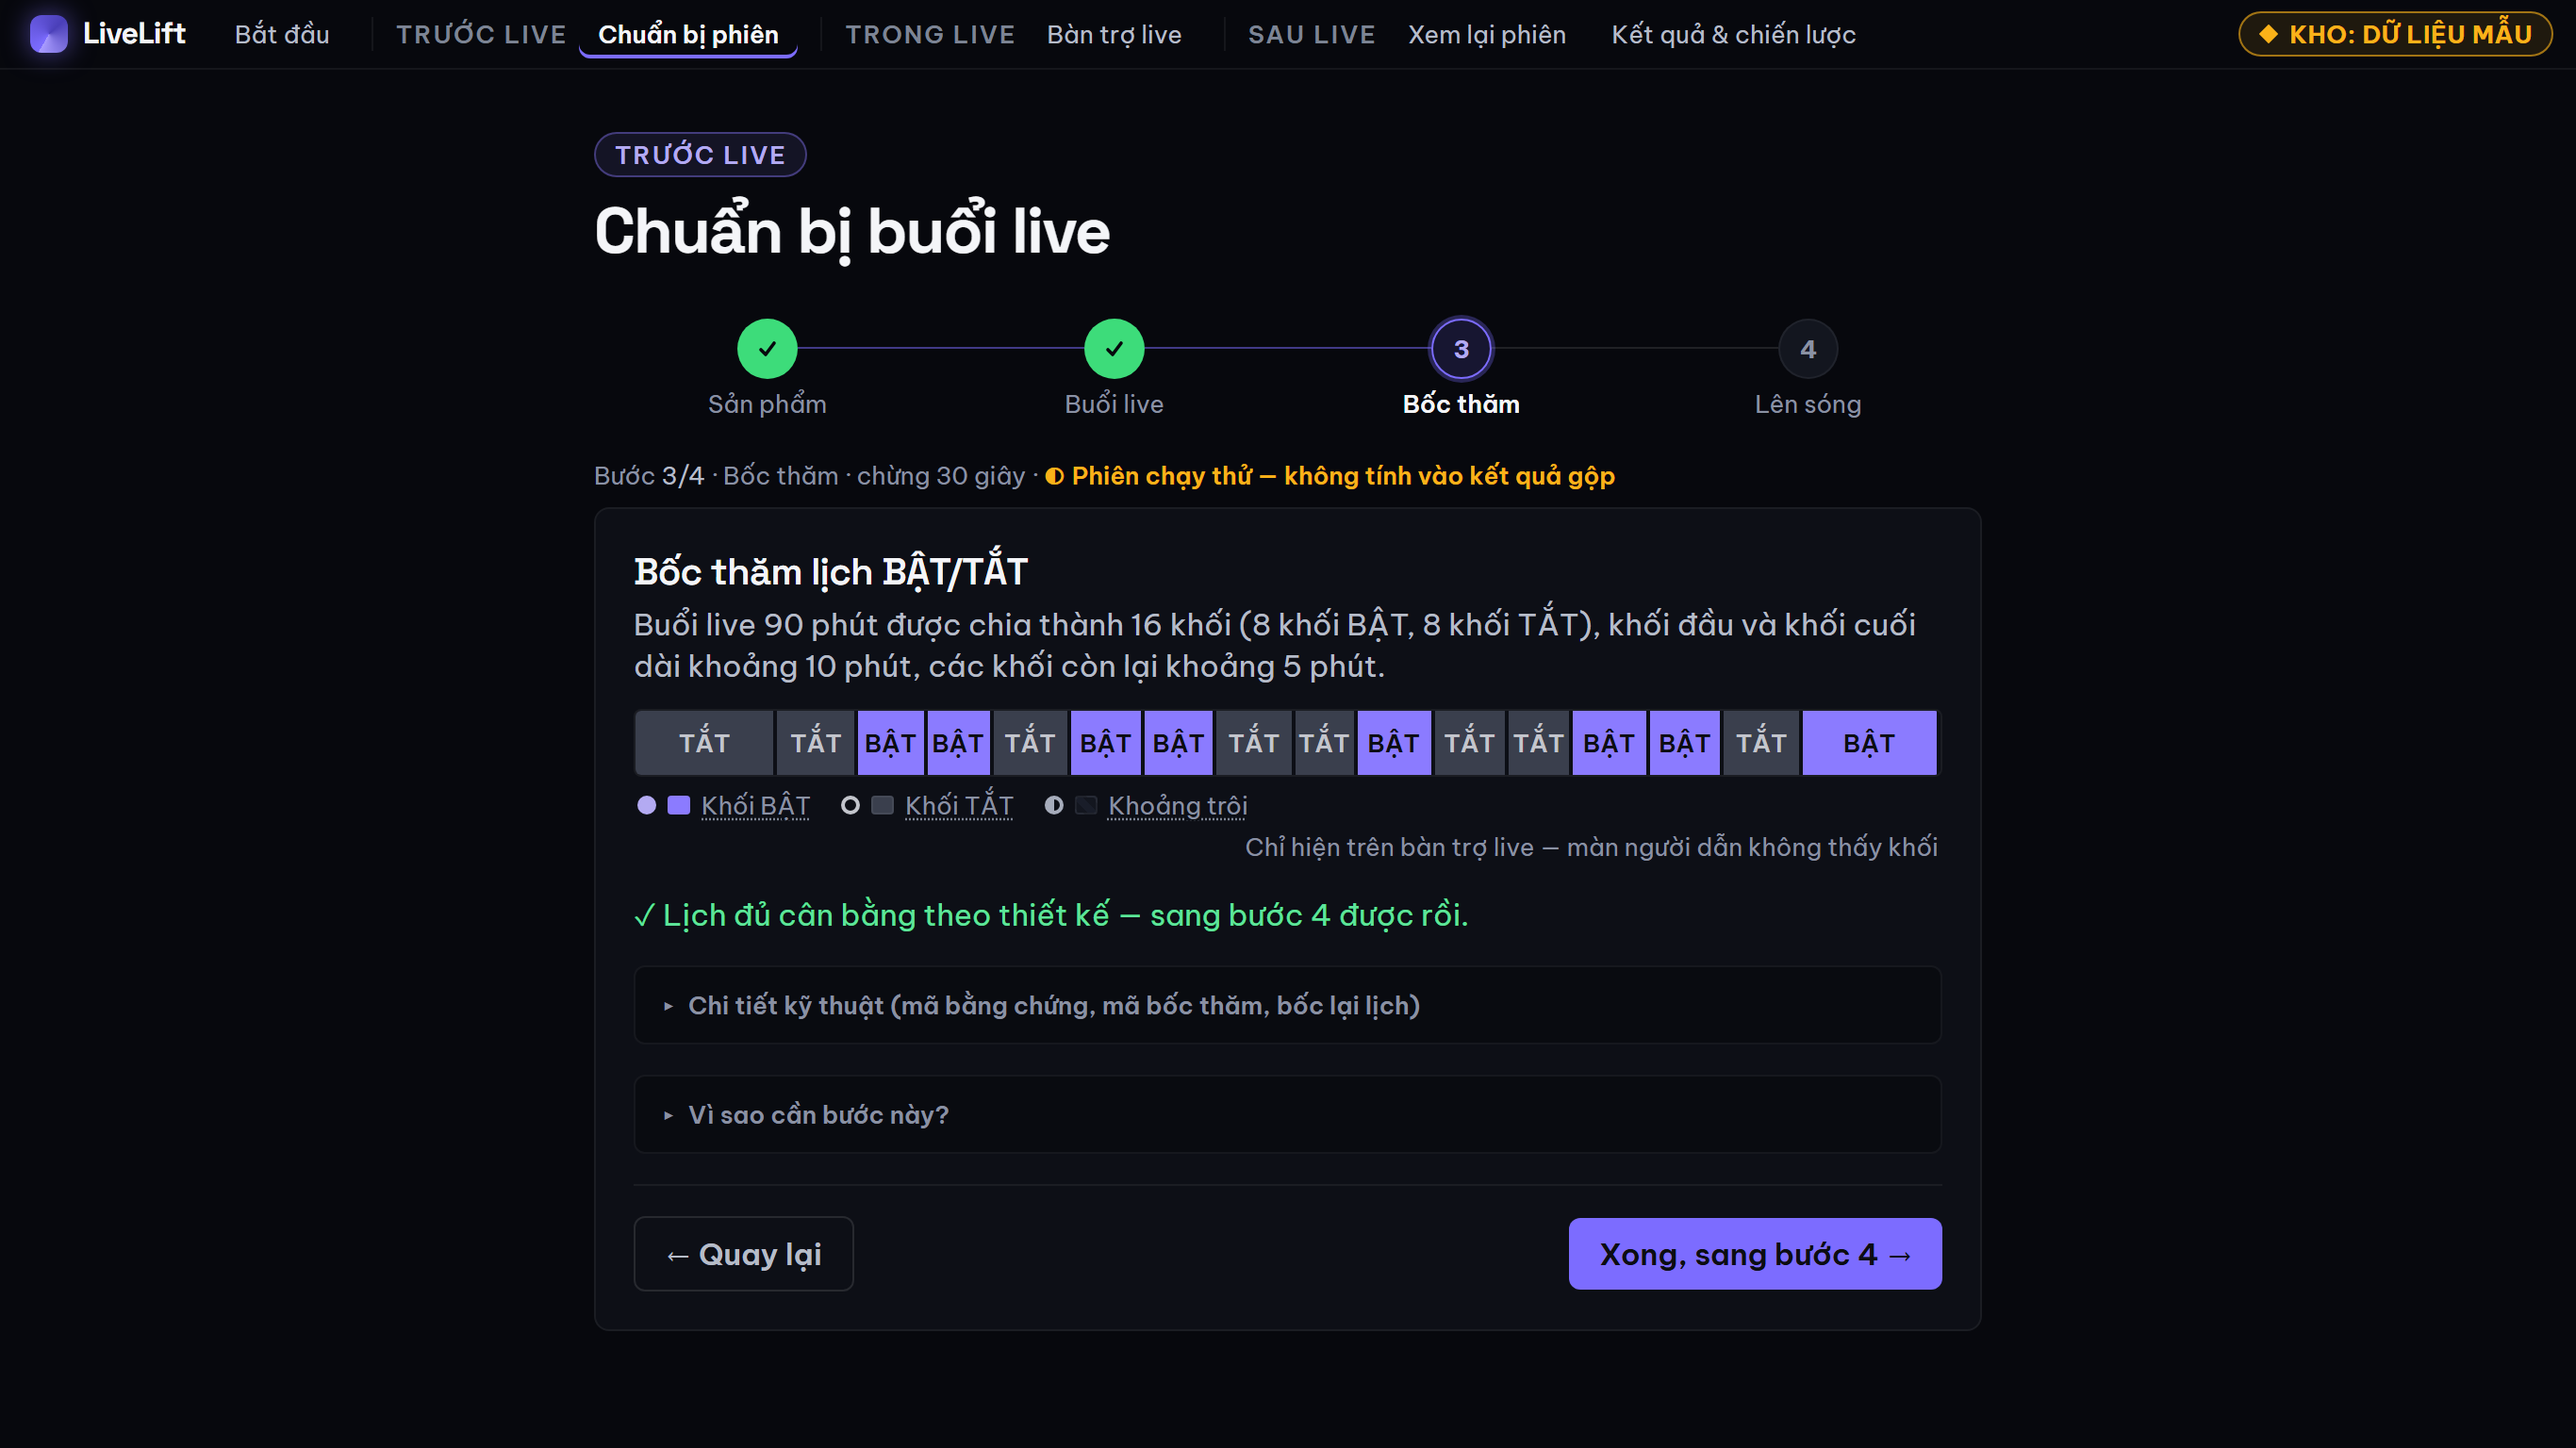
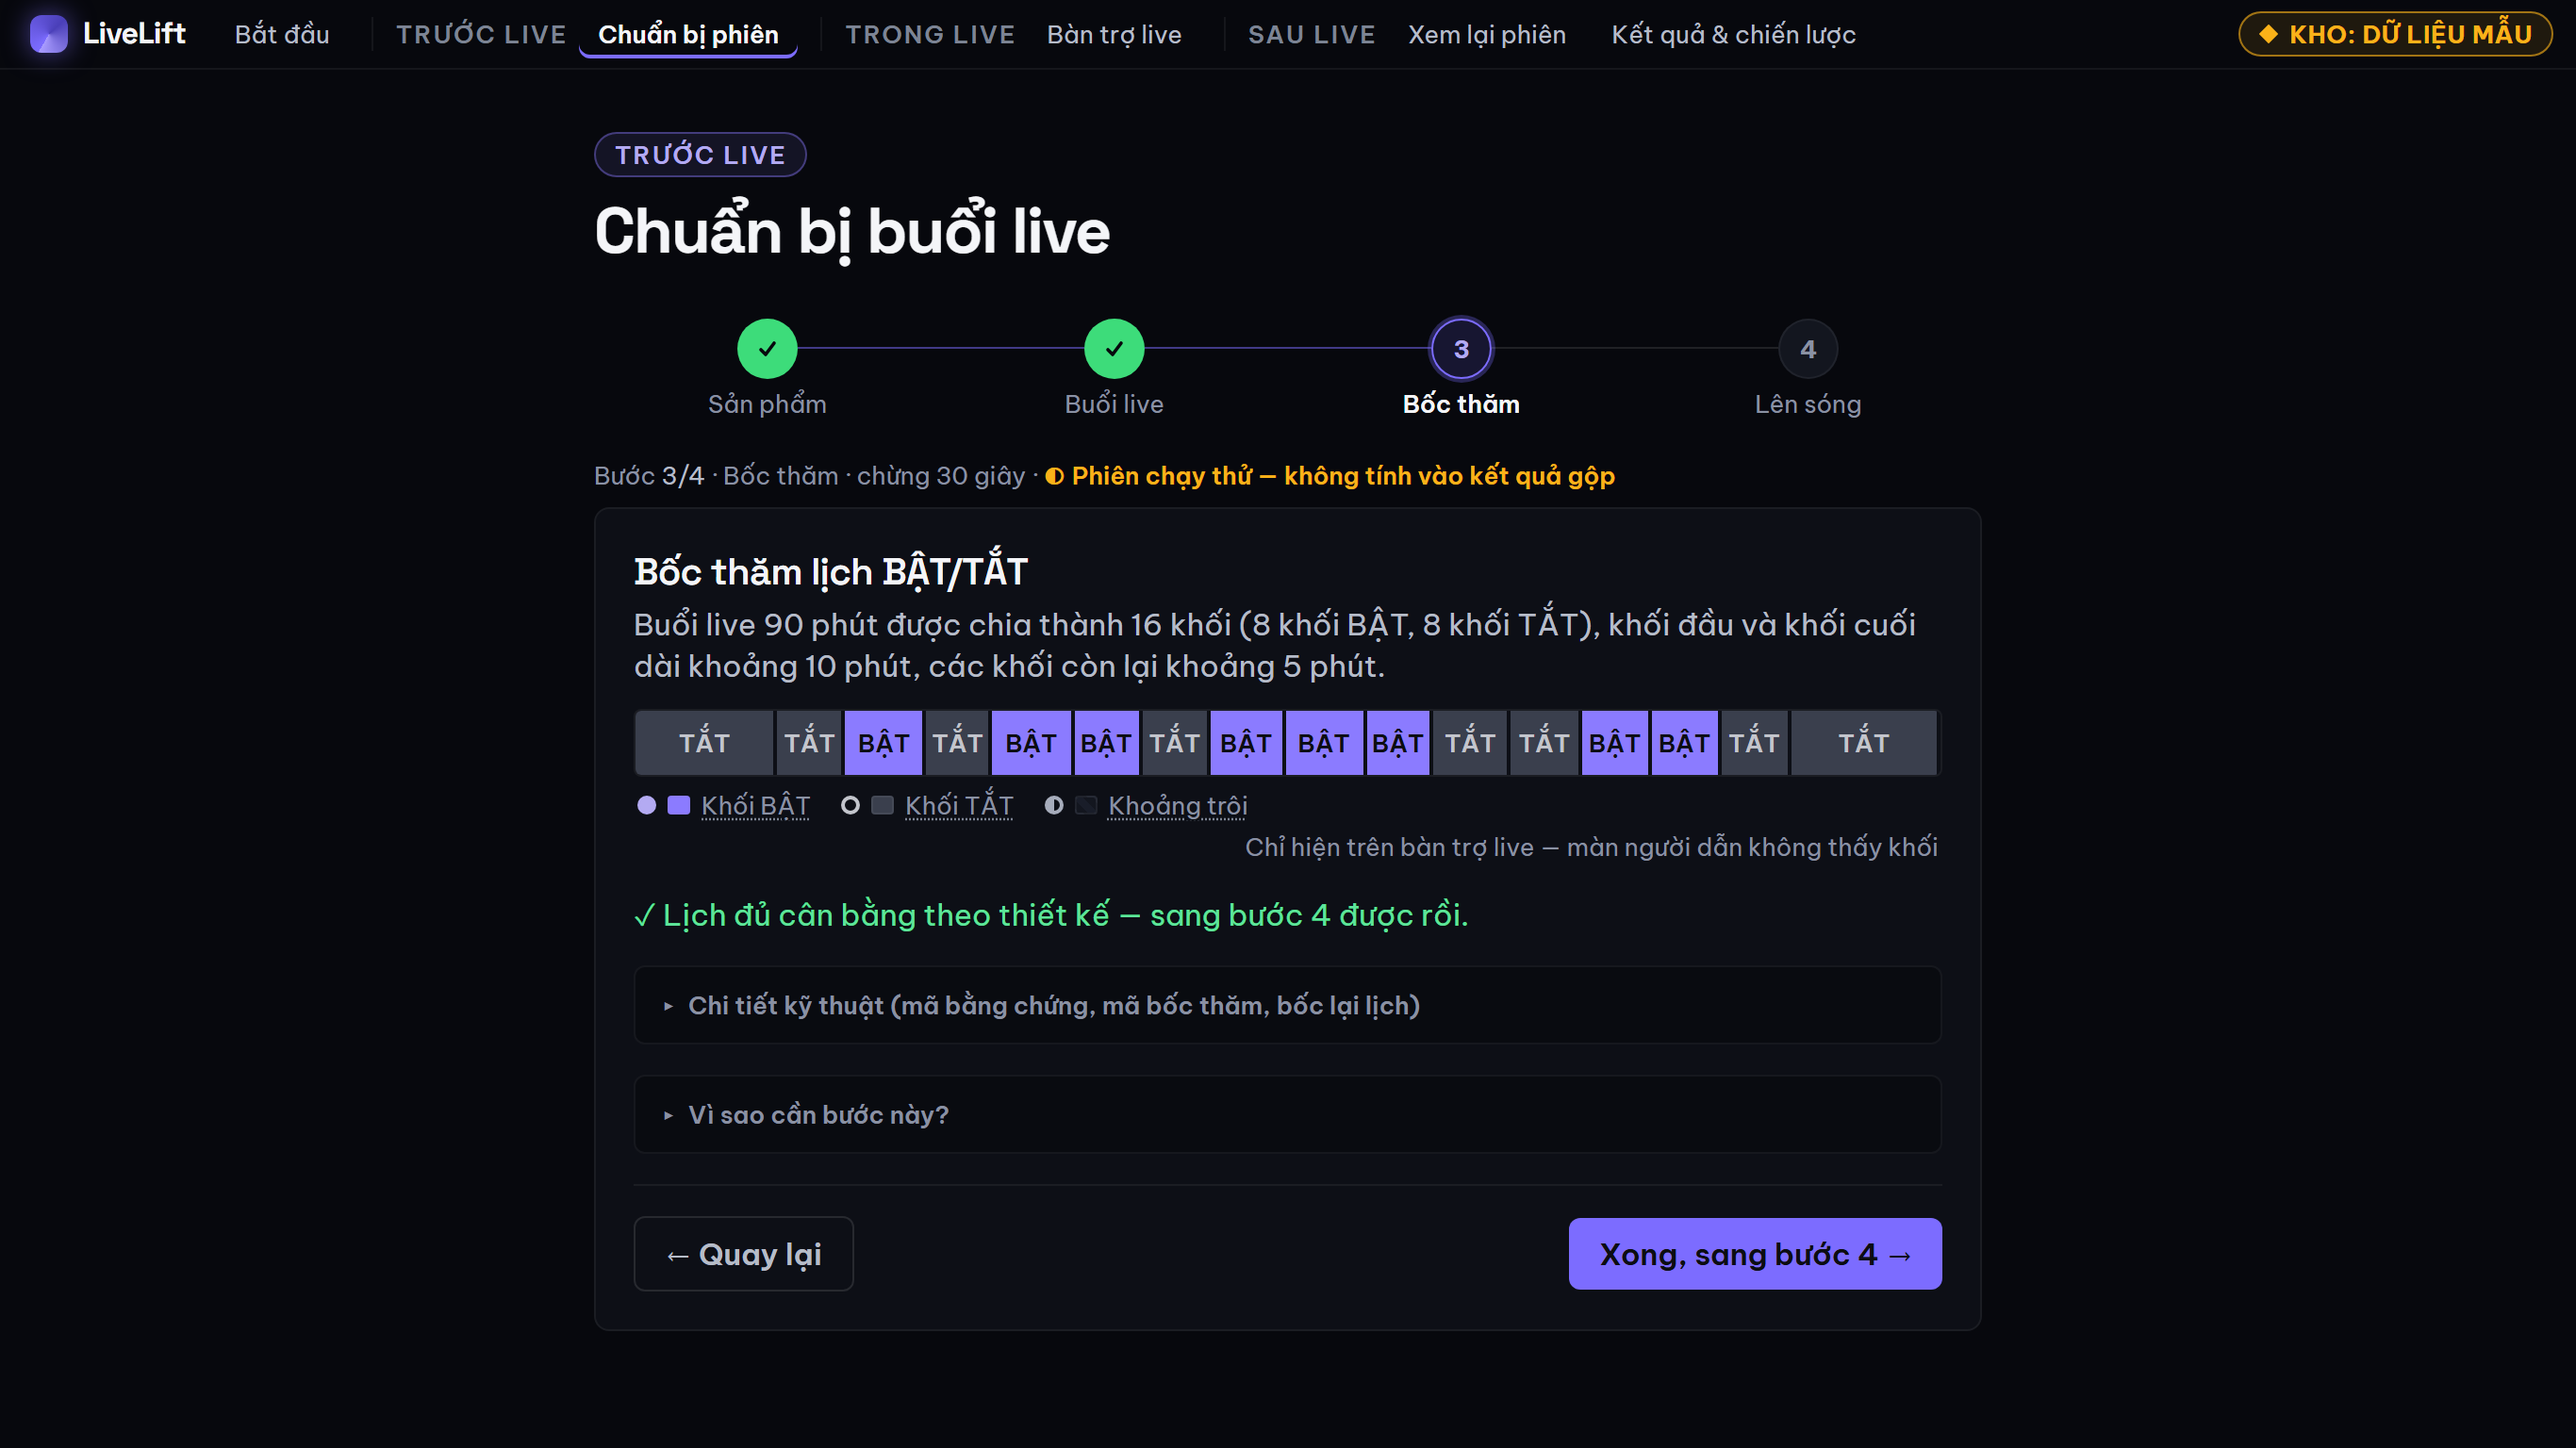
Anh giao dien v2 va Hinh 7: chup lai tren build sach fa64589
Vi sao: anh cu chup tu 17c3ee1 kem 4 tep chua commit, truoc cac ban sua
web 2f6ede1 (feed desk moi thay tron 7 dong, cau bo thu cu o wizard buoc 4
va /bat-dau) va truoc khi so test doi thanh 2.066.

Kiem bang (scripts/chup_giao_dien.py chup tren next build moi .next-p2,
API kho bo nho sach, cay sach fa64589):
- feed /desk 1366x768: clientHeight 295px, thay tron 8 dong (buoc 36px),
  200 binh luan; 0 chuoi PII gia con nguyen tren desk va trong API; payload
  host 4 khoa; /experiment/summary?env=real n_sessions 0; 0 loi console.
- Kiem chu tren trang that: trang chu "2.066 kiem thu tu dong dang xanh"
  (= PROOF trong page.tsx); /bat-dau co cau "Bo thu chay nen trong may chu
  nhung khong tu bat", khong con "lenh chay trong terminal"; wizard buoc 4
  co cau "bo thu cho nen tang bao buoi live dang phat (khong cho nut ...)",
  khong con "bo thu se cho buoi live bat dau".
- Hinh 7 ghep lai 1889x1180 px, 300 dpi; NGUON.md va tom-tat.json sinh lai
  bang ve_hinh_ho_so.py --chi h7 (ban build fa64589).
- pytest test_ve_hinh_ho_so, test_web_desk_layout, test_so_cong_bo,
  test_docs_huong_dan: 129 passed, 1 skipped (co san).

Changed region(s): [[0.3111, 0.4688, 0.7778, 0.5625]]

diff --git a/docs/competition/sang-tao-tre-2026/hinh/NGUON.md b/docs/competition/sang-tao-tre-2026/hinh/NGUON.md
@@ -16,7 +16,7 @@ Riêng `h6-nlp.png`: số trong ô ma trận 7,5 pt, hình cao 8,2 cm.
 | `h4-mde.png` | MDE (sàn Poisson, cận dưới) của biến kết quả chính theo số người xem đồng thời × số phiên, trục log, hai giả định tỷ lệ nhấp; vùng 5–15 người xem là ƯỚC TÍNH từ CPM, chưa đo. Ở 18 phiên: 5–15 người xem cho MDE 21%–37% (tỷ lệ nhấp 1,00) hoặc 39%–67% (tỷ lệ nhấp 0,30). Điểm mô phỏng 8 phiên: CV trong phiên 0,263, MDE 16,4% ở ~59 người xem (40–114); sàn Poisson cùng chỗ đó là 16,0%, tức bộ mô phỏng gần như chỉ có nhiễu đếm | `livelift.analysis.power` (`analysis_window_seconds`, `poisson_cv`, `mde_relative`), `SimParams`, `analysis/power/bang_mde_don_hang.py` (`CLICK_RATE_ANCHOR`, `SESSIONS_GRID`) |
 | `h5-luu-hieu-ung.png` | Độ phủ KTC 95% và độ lệch khi tác động kéo sang khối sau (mô phỏng), bán rã 0/120/180 s, 3 seed gộp — 0 s: 96% (72/75), lệch −1,5%; 120 s: 76% (57/75), lệch −21,5%; 180 s: 57% (43/75), lệch −31,6% | `run_validation` với tham số đọc bằng `ast` từ `tests/test_sim_validation.py::test_estimator_under_carryover_interference`; dữ liệu từng lần lặp: `du-lieu/hieu-ung-luu.json` |
 | `h6-nlp.png` | Phân loại ý định trên 393 bình luận thật (3 buổi live, leave-one-session-out), nhãn tham chiếu do tác tử AI gán: (a) ma trận nhầm lẫn 11 lớp của C2 (v2) chuẩn hóa theo hàng, accuracy 0,730; lớp Hỏi mở đại lý không có dòng tham chiếu nào (n = 0); (b) macro-F1 kèm KTC 95% bootstrap — B0 0,056 [0,051; 0,063]; B1 0,146 [0,109; 0,180]; B2 0,211 [0,172; 0,247]; B3 0,199 [0,163; 0,234]; C1 0,563 [0,491; 0,621]; C2 0,542 [0,478; 0,625]; C3 0,493 [0,441; 0,562]; A4 0,362 [0,317; 0,423]. B2 (v1 đang chạy) 0,211 → C2 (v2) 0,542; bỏ bộ câu mẫu: 0,542 → 0,362 | `docs/benchmarks/intent-eval/chi-tiet-hinh.json` (sinh bằng `python -m livelift.nlp.eval_intent --ablation --coverage`, đo 25/09/2026); tên lớp: `livelift.nlp.labels.LABEL_DISPLAY` |
-| `h7-giao-dien.png` | Giao diện thật — ảnh chụp tự động (Playwright, Chromium) bản build `17c3ee1` ngày 25/09/2026, lưới 2×2: (a) wizard bước 3, lịch 16 khối BẬT/TẮT bốc trước giờ phát của một phiên CHẠY THỬ; (b) feed bình luận trên bàn trợ live, câu có số điện thoại giả đã thành [SĐT]; (c) màn người dẫn cùng phiên — không có khối, không có nhánh; (d) kết quả một phiên Demo Vàng, nhãn DEMO | `python scripts/chup_giao_dien.py chup` (API + web production đang chạy) rồi `python scripts/chup_giao_dien.py ghep`; ảnh cắt và số đo: `docs/img/v2/` |
+| `h7-giao-dien.png` | Giao diện thật — ảnh chụp tự động (Playwright, Chromium) bản build `fa64589` ngày 25/09/2026, lưới 2×2: (a) wizard bước 3, lịch 16 khối BẬT/TẮT bốc trước giờ phát của một phiên CHẠY THỬ; (b) feed bình luận trên bàn trợ live, câu có số điện thoại giả đã thành [SĐT]; (c) màn người dẫn cùng phiên — không có khối, không có nhánh; (d) kết quả một phiên Demo Vàng, nhãn DEMO | `python scripts/chup_giao_dien.py chup` (API + web production đang chạy) rồi `python scripts/chup_giao_dien.py ghep`; ảnh cắt và số đo: `docs/img/v2/` |
 
 ## Lưu ý trung thực khi trích hình
 

diff --git a/docs/img/v2/README.md b/docs/img/v2/README.md
@@ -2,10 +2,10 @@
 
 *Sinh bằng* `python scripts/chup_giao_dien.py chup` *— không sửa tay; chụp lại bằng lệnh.* Số đo đầy đủ: `chup.json`.
 
-- Bản build: nhánh `hoan-thien/ho-so-2509`, HEAD `17c3ee1`; tệp chưa commit lúc chụp: `README.md`, `docs/benchmarks/so-hieu-chuan.json`, `docs/competition/FACT-SHEET.md`, `web/src/app/page.tsx`.
-- Chụp lúc 2026-09-25 13:46:38 +0700 → 2026-09-25 13:50:35 +0700; Chromium headless (Playwright), khung 1366×768, device scale 2 (ảnh cắt `h7-*` ghi khung riêng ở cột Nội dung); ảnh > 400 KB được ép bằng bảng màu Pillow (không dither).
+- Bản build: nhánh `hoan-thien/ho-so-2509`, HEAD `fa64589`; tệp chưa commit lúc chụp: không có.
+- Chụp lúc 2026-09-25 19:27:22 +0700 → 2026-09-25 19:30:52 +0700; Chromium headless (Playwright), khung 1366×768, device scale 2 (ảnh cắt `h7-*` ghi khung riêng ở cột Nội dung); ảnh > 400 KB được ép bằng bảng màu Pillow (không dither).
 - Kho API: `memory+snapshot` (bộ nhớ, không bền) — dữ liệu chỉ gồm bộ Demo Vàng (`is_demo`, dữ liệu MẪU) và một phiên CHẠY THỬ (`dry_run`) tạo qua wizard; bình luận là kịch bản Mô phỏng tổng hợp ×10 (số điện thoại, địa chỉ, email đều GIẢ), bật SAU khi bấm "Bắt đầu phát sóng".
-- Feed bình luận trên desk (1366×768): `clientHeight` 279 px, thấy trọn 7 dòng (ngưỡng 8).
+- Feed bình luận trên desk (1366×768): `clientHeight` 295 px, thấy trọn 8 dòng (ngưỡng 8).
 - Chuỗi PII giả còn nguyên trên desk: 0; trong `GET /sessions/{id}/comments`: 0. Payload `state?role=host` chỉ có khoá elapsed_s, pinned_product, price, stock.
 - `/experiment/summary?env=real` sau phiên chạy thử: `n_sessions=0` — dự án có 0 phiên thí nghiệm ngẫu nhiên thật.
 
